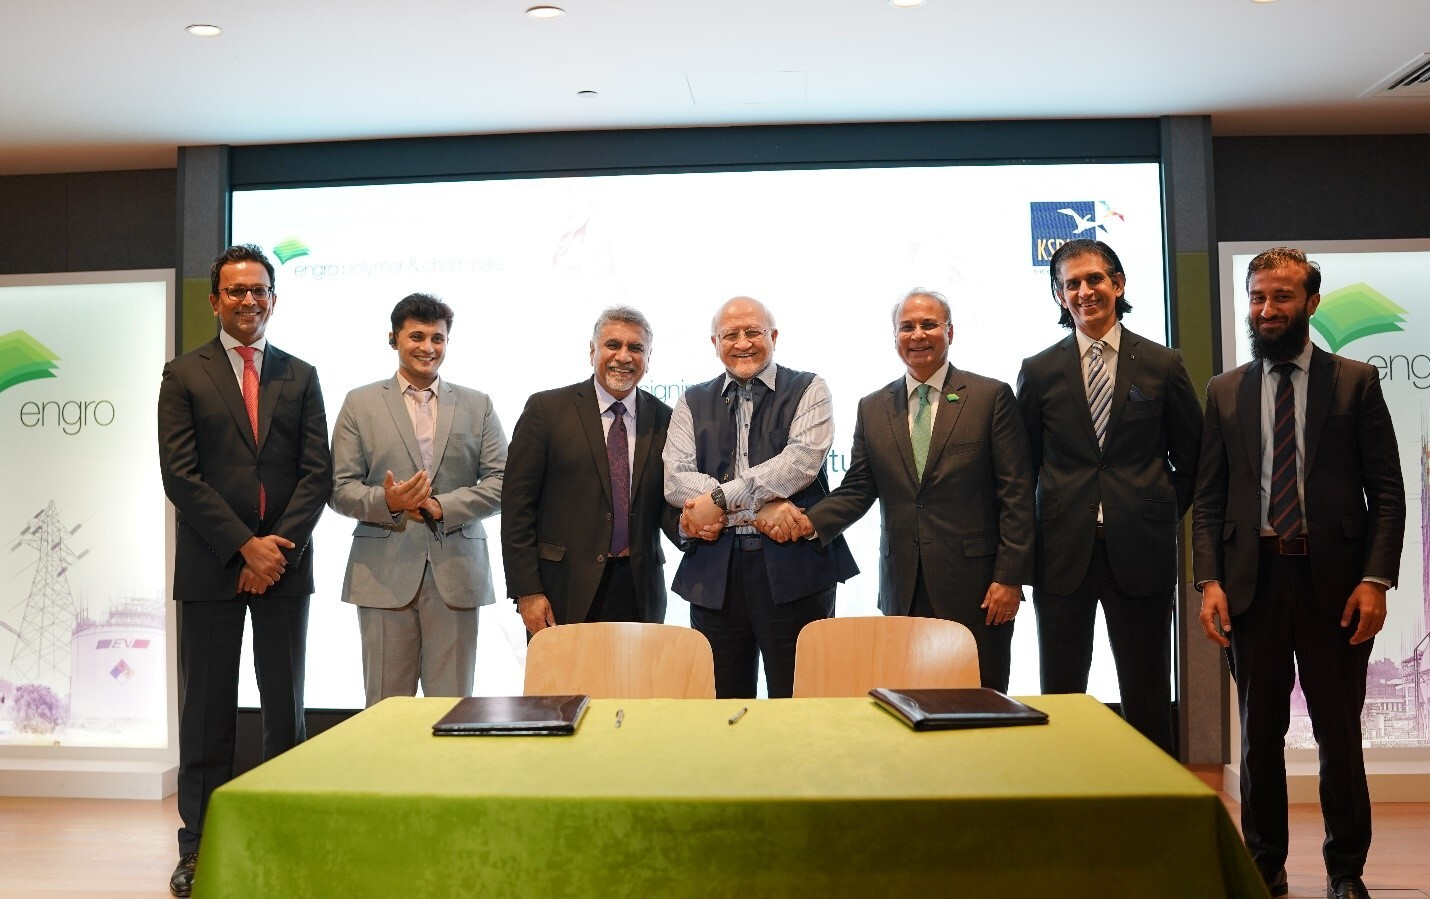
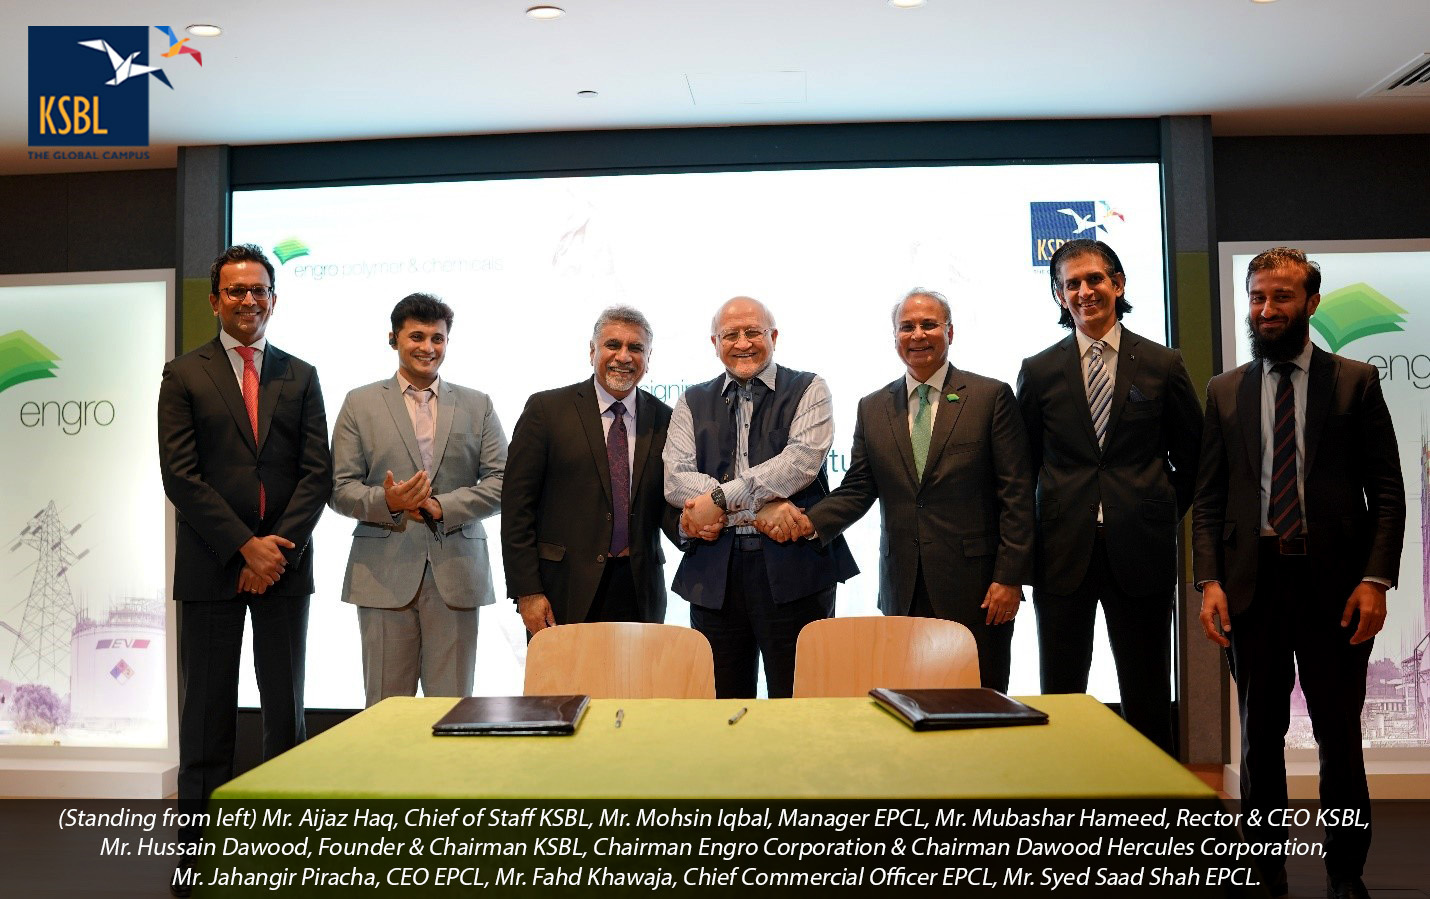
images changed and text removed

Changed region(s): [[0.0, 0.8721, 1.0, 1.0], [0.0, 0.0311, 0.1538, 0.1869]]

diff --git a/blog/Engro_Polymer_&_Chemicals.php b/blog/Engro_Polymer_&_Chemicals.php
@@ -42,22 +42,7 @@ include('../partials/navbar.php');
                         <p>
                         The Circular Plastic Institute at KSBL will serve as a research arm working at the crossroads of plastics R&D, practical experimentation, and public policy advocacy, bringing together stakeholders from the plastics and related sectors.
                         </p>
-                        <p>
-                            #KSBL <br>
-                            #KSBLAtExpo <a href="https://www.linkedin.com/feed/hashtag/?keywords=engro&highlightedUpdateUrns=urn%3Ali%3Aactivity%3A6860965798983421954" target="_blank">#Engro</a>
-                            <a href="https://www.linkedin.com/feed/hashtag/?keywords=engroatexpo&highlightedUpdateUrns=urn%3Ali%3Aactivity%3A6860965798983421954" target="_blank">#EngroAtExpo</a>
-                            <a href="https://www.linkedin.com/feed/hashtag/?keywords=expo2020dubai&highlightedUpdateUrns=urn%3Ali%3Aactivity%3A6860965798983421954" target="_blank">#Expo2020Dubai</a>
-                            <a href="https://www.linkedin.com/feed/hashtag/?keywords=pakistanexpo2020&highlightedUpdateUrns=urn%3Ali%3Aactivity%3A6860965798983421954" target="_blank">#PakistanExpo2020</a>
-                            <a href="https://www.linkedin.com/feed/hashtag/?keywords=pakistanpavilion&highlightedUpdateUrns=urn%3Ali%3Aactivity%3A6860965798983421954" target="_blank">#PakistanPavilion</a>
-                            <a href="https://www.linkedin.com/feed/hashtag/?keywords=expo2020&highlightedUpdateUrns=urn%3Ali%3Aactivity%3A6860965798983421954" target="_blank">#Expo2020</a>
-                            <a href="https://www.linkedin.com/feed/hashtag/?keywords=dubai&highlightedUpdateUrns=urn%3Ali%3Aactivity%3A6860965798983421954" target="_blank">#Dubai</a>
-                            <a href="https://www.linkedin.com/feed/hashtag/?keywords=sponsorship&highlightedUpdateUrns=urn%3Ali%3Aactivity%3A6860965798983421954" target="_blank">#Sponsorship</a>
-                            <a href="https://www.linkedin.com/feed/hashtag/?keywords=empoweringpakistan&highlightedUpdateUrns=urn%3Ali%3Aactivity%3A6860965798983421954" target="_blank">#EmpoweringPakistan</a>
-                                                      
-                        </p>
-                        <p>
-                        (Standing from left) Mr. Aijaz Haq, Chief of Staff KSBL, Mr. Mohsin Iqbal, Manager EPCL, Mr. Mubashar Hameed, Rector & CEO KSBL, Mr. Hussain Dawood, Founder & Chairman KSBL, Chairman Engro Corporation & Chairman Dawood Hercules Corporation, Mr. Jahangir Piracha, CEO EPCL, Mr. Fahd Khawaja, Chief Commercial Officer EPCL, Mr. Syed Saad Shah EPCL.
-                        </p>
+
                     </div>
                     <!-----------------------------------------------------------------#
 							#                       Other Pictures                             #
